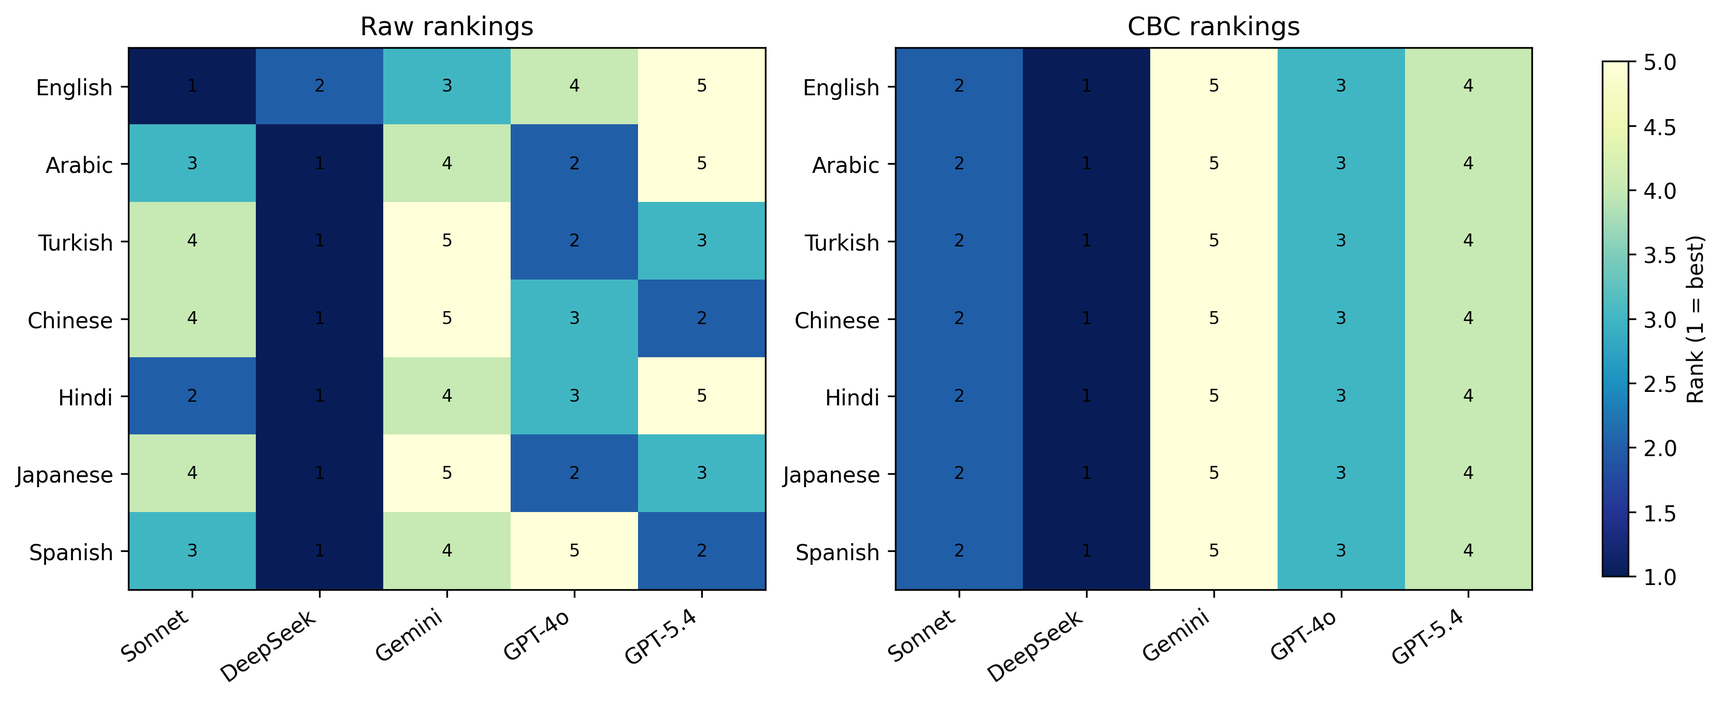
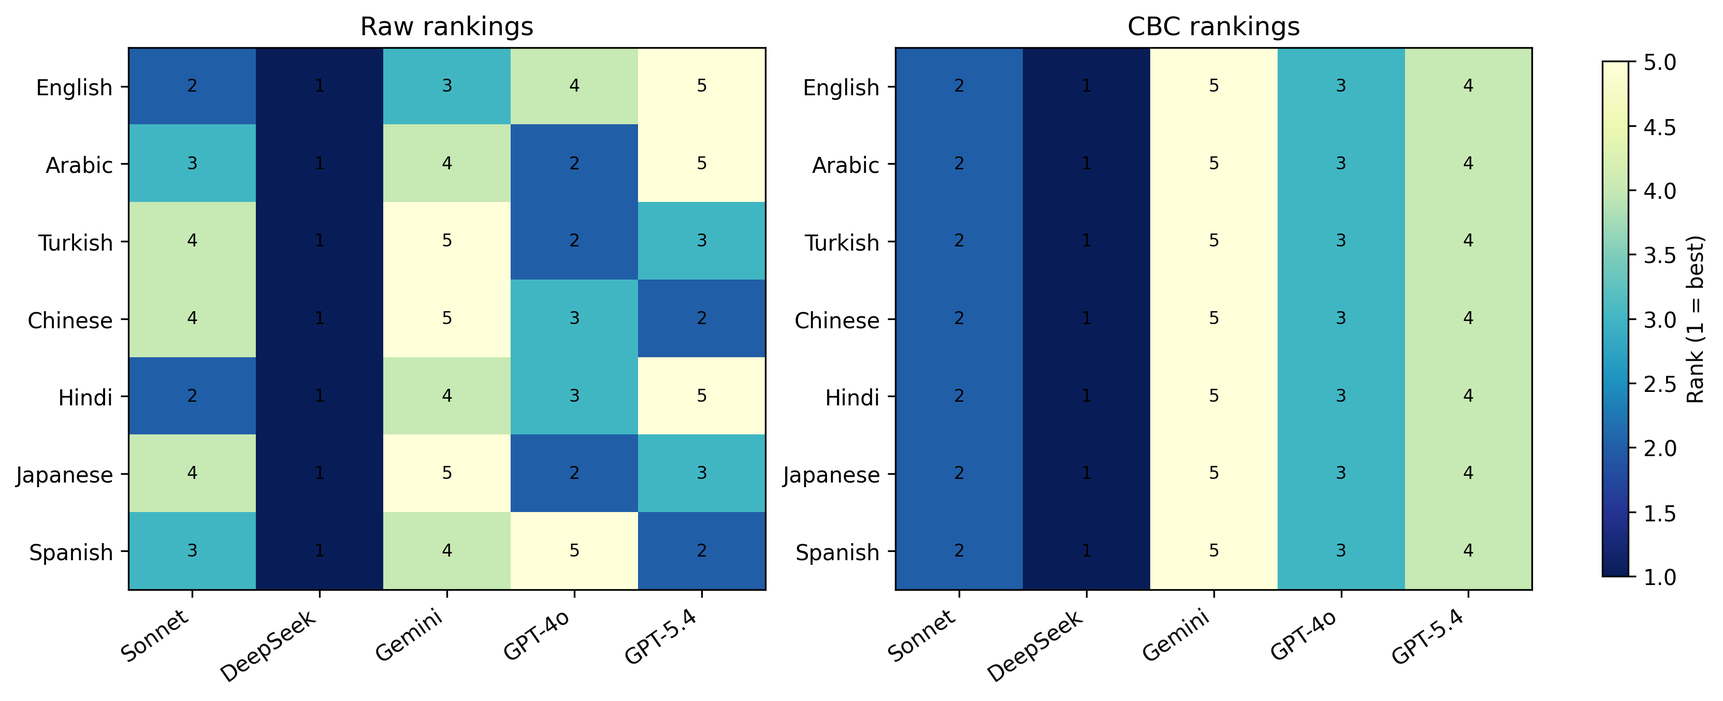
Revise analysis data, images, and paper text
Update analysis artifacts and paper content: replace two analysis PNGs, modify paper/analysis/meb_foundations.json (reorder methods, adjust mean_pairwise_tau and CIs, remove/reshape full_panel entries), and apply multiple edits to paper/main.tex (add code repository URL, update panel size from k=5 to k=8 in variance/radius calculations, adjust recommended task counts and ablation text, refine several phrasing points, and update bibliography invocation). Also expand and normalize entries in paper/references.bib (add metadata, DOIs/URLs, and change some entry types). These changes align the narrative and statistical constants with the expanded 8-language panel and refresh references and figures for reproducibility.

Changed region(s): [[0.0619, 0.062, 0.2477, 0.1861]]

diff --git a/paper/main.tex b/paper/main.tex
@@ -37,8 +37,9 @@
 \begin{document}
 \maketitle
 \begin{abstract}
-Multilingual LLM judges produce different evaluator-backbone rankings depending on the prompt language: on an eight-language Agent-as-a-Judge benchmark, the top-ranked backbone alternates across English, Arabic, Chinese, Hindi, Japanese, Spanish, Turkish, and Swahili, and 7 of 15 backbone pairs show statistically significant pairwise rank reversal. We treat this as a measurement problem. The multilingual judge score decomposes additively into task difficulty, backbone skill, and a language-backbone interaction term, the last of which is recoverable without human labels by double-centering the cell-mean score matrix. We make this estimator (\textbf{Consensus-Based Calibration}, CBC) explicit, give an $O(1/\sqrt{n})$ finite-sample concentration bound with variance constant $(1-\tfrac{1}{m})(1-\tfrac{1}{k})$, and show that it is unbiased even when task-language interactions are present. Across 7{,}920 judge runs (6 backbones, 8 languages, 55 tasks, 3 frameworks), CBC raises mean held-out Kendall $\tau$ from 0.650 to 0.902 and selects the held-out oracle-best backbone in 100\% of per-language decisions versus 68.5\% raw. On a separately collected M-RewardBench panel (7 languages, 1{,}500 items each, 5 evaluators), $\tau$ rises from 0.430 to 0.900, and panel agreement with the public gold preferences improves by 7.9 points (68.7\% to 76.6\%). The estimator is the standard two-way ANOVA interaction-recovery operation under sum-to-zero contrasts; our contribution is its application as a label-free post-hoc calibrator for multilingual LLM judges, an explicit finite-sample concentration bound, and an unbiasedness result that holds even under task-language misspecification.
+Multilingual LLM judges produce different evaluator-backbone rankings depending on the prompt language: on an eight-language Agent-as-a-Judge benchmark, the top-ranked backbone alternates across English, Arabic, Chinese, Hindi, Japanese, Spanish, Turkish, and Swahili, and 7 of 15 backbone pairs show statistically significant pairwise rank reversal. We treat this as a measurement problem. The multilingual judge score decomposes additively into task difficulty, backbone skill, and a language-backbone interaction term, the last of which is recoverable without human labels by double-centering the cell-mean score matrix. We make this estimator (\textbf{Consensus-Based Calibration}, CBC) explicit, give an $O(1/\sqrt{n})$ finite-sample concentration bound with variance constant $(1-\tfrac{1}{m})(1-\tfrac{1}{k})$, and show that it is unbiased even when task-language interactions are present. Across 7{,}920 judge runs (6 backbones, 8 languages, 55 tasks, 3 frameworks), CBC raises mean held-out Kendall $\tau$ from 0.650 to 0.902 and selects the held-out oracle-best backbone in 100\% of per-language decisions versus 68.5\% raw. On a separately collected M-RewardBench panel (7 languages, 1{,}500 items each, 5 evaluators), $\tau$ rises from 0.430 to 0.900, and panel agreement with the public gold preferences improves by 7.9 points (68.7\% to 76.6\%). The estimator is the standard two-way ANOVA interaction-recovery operation under sum-to-zero contrasts; our contribution is its application as a label-free post-hoc calibrator for multilingual LLM judges, an explicit finite-sample concentration bound, and an unbiasedness result that holds even under task-language misspecification. Code is available at \url{https://anonymous.4open.science/r/multilingual-judge-calibration-8F40}
 \end{abstract}
+
 \noindent \section{Introduction}
 The use of LLM-based judges to evaluate model and agent outputs is now common across recent benchmarks \citep{zhuge2024agentjudge,zheng2024judging,tan2025judgebench,lambert2024rewardbench}. As this deployment extends across languages, multiple studies have shown that judge behavior is not stable across the prompt language: \citet{hada-etal-2024-large} report systematic score inflation in multilingual evaluators against native-speaker references; \citet{fu2025reliable} document weak cross-lingual consistency (Fleiss' $\kappa \approx 0.3$) across 25 languages; \citet{singh-etal-2025-global} show that multilingual benchmark construction itself encodes linguistic and cultural bias; and \citet{mahmood2026multilingualpromptlocalizationagentasajudge} report concrete backbone-ranking reversals when judge prompts are localized.
 
@@ -165,7 +166,7 @@ Consequently, with probability at least $1-\varepsilon$,
 }
 \end{proposition}
 
-The exact constant comes from the variance of the double-centering operator: $\mathrm{Var}[\hat\beta(\ell,b)-\beta(\ell,b)] = \frac{\sigma^2}{n}(1-\frac{1}{m})(1-\frac{1}{k})$. For the panel used in our experiments ($m{=}6$, $k{=}5$, $n{=}55$), the simultaneous high-probability radius is about $9.2$ points at $\varepsilon{=}0.05$ with $\hat\sigma{\approx}22$ estimated from the simplified-model residuals (Appendix~\ref{app:proofs}).
+The exact constant comes from the variance of the double-centering operator: $\mathrm{Var}[\hat\beta(\ell,b)-\beta(\ell,b)] = \frac{\sigma^2}{n}(1-\frac{1}{m})(1-\frac{1}{k})$. For the expanded panel used in our main experiments ($m{=}6$, $k{=}8$, $n{=}55$), the simultaneous high-probability radius is about $9.9$ points at $\varepsilon{=}0.05$ with $\hat\sigma{\approx}22$ estimated from the simplified-model residuals (Appendix~\ref{app:proofs}).
 
 \begin{proposition}[Consistency]
 \label{prop:consistency}
@@ -299,7 +300,7 @@ The result is sharper than the Kendall-$\tau$ view alone (Table~\ref{tab:decisio
 
 \paragraph{Calibration results.} Under the same bootstrap train/OOB protocol as the main benchmark, raw cross-language $\tau$ is moderate ($0.430$, 95\% CI $[0.371, 0.486]$); CBC raises it to $0.900$ ($[0.790, 1.000]$); the adapted judge-aware BTL pairwise baseline reaches only $0.405$ ($[0.352, 0.467]$), close to Raw and well below CBC (Table~\ref{tab:external_validation}). After full-fit calibration, all seven languages align on the order DeepSeek $>$ Sonnet $>$ GPT-4o $>$ GPT-5.4 $>$ Gemini (Figure~\ref{fig:external_cbc_before_after}).
 
-\paragraph{Human-anchor check.} To add an external signal that does not depend on any choice we made, we use the public human-judged chosen/rejected gold preferences in M-RewardBench itself. For each language we sample 100 items stratified by subset (54 \texttt{alpacaeval-easy}, 46 \texttt{alpacaeval-hard}), average the 5 evaluator margins per item, and ask whether the panel decision agrees with the gold preference (ties count as non-agreement). Raw agreement is 68.7\% (95\% CI $[65.4, 71.7]$); CBC-aligned panel agreement rises to 76.6\% ($[73.6, 79.3]$), a gain of 7.9 points ($[6.0, 9.9]$; Table~\ref{tab:external_human_anchor}). Because the gold labels are human-judged and released by an independent group \citep{gureja-etal-2025-rewardbench}, this anchor cross-validates CBC against a target that does not pass through our rubric or routing.
+\paragraph{Human-anchor check.} To add an external signal independent of our evaluator scores, we use the public human-judged chosen/rejected gold preferences in M-RewardBench itself. For each language we sample 100 items stratified by subset (54 \texttt{alpacaeval-easy}, 46 \texttt{alpacaeval-hard}), average the 5 evaluator margins per item, and ask whether the panel decision agrees with the gold preference (ties count as non-agreement). Raw agreement is 68.7\% (95\% CI $[65.4, 71.7]$); CBC-aligned panel agreement rises to 76.6\% ($[73.6, 79.3]$), a gain of 7.9 points ($[6.0, 9.9]$; Table~\ref{tab:external_human_anchor}). Because the gold labels are human-judged and released by an independent group \citep{gureja-etal-2025-rewardbench}, this anchor cross-validates CBC against a target that does not pass through our rubric or routing.
 
 \begin{table}[t]
 \centering\footnotesize
@@ -344,7 +345,7 @@ Raw panel mean margin & 68.7\% & [65.4, 71.7] \\
 \subsection{Ablations}
 \label{sec:ablations-summary}
 
-Three ablations on the same expanded benchmark, with tables, figure, and full discussion, are reported in Appendix~\ref{app:ablations}. (i) Varying the number of backbones $m \in \{2,3,4,5,6\}$: mean $\tau$ stays near $0.90$ for all $m$, but cross-subset variability drops sharply once $m \geq 3$ (Std.\ $0.206 \to 0.105$). (ii) Varying the number of tasks $n \in \{10,20,30,40,55\}$: mean $\tau$ rises from $0.759$ at $n{=}10$ to $0.906$ at $n{=}55$, and the mean absolute estimation error $|\hat\beta-\beta_{\text{oracle}}|$ drops from $2.01$ to $0.67$, consistent with the $O(1/\sqrt{n})$ rate. For practitioners with $m \geq 3$ backbones we recommend $n \geq 30$ as a stable minimum and $n \approx 45$ as a more conservative target. (iii) Splitting by requirement type, CBC improves operational checks from $\tau = 0.770$ to $0.789$ and semantic checks from $0.737$ to $0.840$; the larger semantic gain is consistent with semantic judgments being more language-sensitive, while operational checks were already relatively stable across languages.
+Three ablations on the same expanded benchmark, with tables, a figure, and full discussion, are reported in Appendix~\ref{app:ablations}. (i) Varying the number of backbones $m \in \{2,3,4,5,6\}$: mean $\tau$ stays near $0.90$ for all $m$, but cross-subset variability drops sharply once $m \geq 3$ (Std.\ $0.206 \to 0.105$). (ii) Varying the number of tasks $n \in \{10,20,30,40,55\}$: mean $\tau$ rises from $0.759$ at $n{=}10$ to $0.906$ at $n{=}55$, and the mean absolute estimation error $|\hat\beta-\beta_{\text{oracle}}|$ drops from $2.01$ to $0.67$, consistent with the $O(1/\sqrt{n})$ rate. For practitioners with $m \geq 3$ backbones we recommend $n \geq 30$ as a stable minimum and $n \approx 52$ as a more conservative target. (iii) Splitting by requirement type, CBC improves operational checks from $\tau = 0.770$ to $0.789$ and semantic checks from $0.737$ to $0.840$; the larger semantic gain is consistent with semantic judgments being more language-sensitive, while operational checks were already relatively stable across languages.
 
 
 %==========================================================
@@ -352,7 +353,7 @@ Three ablations on the same expanded benchmark, with tables, figure, and full di
 \label{sec:analysis}
 %==========================================================
 
-To corroborate the rank-based results with an information-theoretic quantity, we estimate $I(\text{Score}; \text{Language} \mid \text{Backbone}, \text{Task})$ from the framework-level scores. Each $(\text{task}, \text{backbone})$ slice contains 24 observations (8 languages $\times$ 3 frameworks); we apply a KSG-style nearest-neighbor estimator \citep{kraskov2004estimating} per slice, average over all 330 slices, and report a permutation-debiased value (500 shuffles per slice). The conditional MI is $0.178$ nats (permutation interval $[0.169, 0.187]$, one-sided $p < 0.002$): small in absolute terms but statistically reliable, and exactly the non-redundant signal that $\beta(\ell,b)$ represents. The seven verified pairwise reversals (Table~\ref{tab:diversity}) are also all and only the cross-family pairs among GPT-4o, GPT-5.4, Sonnet, and DeepSeek; Qwen is Pareto-dominated in this panel and Gemini is top- or second-ranked in every language, so neither produces a sign change. A rigorous regression against standardized model-card metadata requires information that current cards do not consistently disclose and remains future work.
+To corroborate the rank-based results with an information-theoretic quantity, we estimate $I(\text{Score}; \text{Language} \mid \text{Backbone}, \text{Task})$ from the framework-level scores. Each $(\text{task}, \text{backbone})$ slice contains 24 observations (8 languages $\times$ 3 frameworks); we apply a KSG-style nearest-neighbor estimator \citep{kraskov2004estimating} per slice, average over all 330 slices, and report a permutation-debiased value (500 shuffles per slice). The conditional MI is $0.178$ nats (permutation interval $[0.169, 0.187]$, one-sided $p < 0.002$): small in absolute terms but statistically reliable, and exactly the non-redundant signal that $\beta(\ell,b)$ represents. The seven verified pairwise reversals (Table~\ref{tab:diversity}) are exactly the cross-family pairs among GPT-4o, GPT-5.4, Sonnet, and DeepSeek; Qwen is Pareto-dominated in this panel and Gemini is top- or second-ranked in every language, so neither produces a sign change. A rigorous regression against standardized model-card metadata requires information that current cards do not consistently disclose and remains future work.
 
 
 %==========================================================
@@ -360,9 +361,9 @@ To corroborate the rank-based results with an information-theoretic quantity, we
 \label{sec:discussion}
 %==========================================================
 
-\paragraph{Theory meets practice.} The pairwise rank reversals tell practitioners that searching for a language-neutral backbone is futile; Proposition~\ref{thm:identifiability} shows they already have the data to fix it; and CBC tells them how. Unlike Dawid--Skene \citep{dawid1979maximum}, which models annotator-level reliability on categorical labels, CBC operates on continuous pointwise scores and exploits the two-way (language$\times$backbone) structure rather than treating each language-backbone pair as an independent annotator. This structural assumption replaces per-annotator confusion matrices with a single scalar bias per language-backbone pair, which is what enables stable estimation with $n=55$ tasks.
+\paragraph{Theory meets practice.} The pairwise rank reversals tell practitioners that searching for a language-neutral backbone is unreliable; Proposition~\ref{thm:identifiability} shows they already have the data needed to estimate the interaction; and CBC tells them how to remove it. Unlike Dawid--Skene \citep{dawid1979maximum}, which models annotator-level reliability on categorical labels, CBC operates on continuous pointwise scores and exploits the two-way (language$\times$backbone) structure rather than treating each language-backbone pair as an independent annotator. This structural assumption replaces per-annotator confusion matrices with a single scalar bias per language-backbone pair, which is what enables stable estimation with $n=55$ tasks.
 
-\paragraph{Cost and applicability.} CBC costs zero human annotations; by comparison, \citet{hada-etal-2024-large} use 20{,}000 native-speaker annotations across eight languages. Our compute cost is \$54.93 for the three-language extension and \$195.3 for the M-RewardBench panel (Appendix~\ref{app:costs}). The same two-way decomposition and calibrator apply beyond agentic code evaluation, to any setting where multiple judge backbones produce continuous scores on shared items across languages, including RLHF reward modeling, safety classification, automated grading, and machine-translation evaluation.
+\paragraph{Cost and applicability.} CBC requires zero human annotations; by comparison, \citet{hada-etal-2024-large} use 20{,}000 native-speaker annotations across eight languages. Our compute cost is \$54.93 for the three-language extension and \$195.3 for the M-RewardBench panel (Appendix~\ref{app:costs}). The same two-way decomposition and calibrator apply beyond agentic code evaluation, to any setting where multiple judge backbones produce continuous scores on shared items across languages, including RLHF reward modeling, safety classification, automated grading, and machine-translation evaluation.
 
 
 %==========================================================
@@ -385,7 +386,7 @@ Two directions remain open: three-way effects and zero-shot transfer to unseen l
 
 \textbf{Interaction bias versus shared bias.} CBC is designed to remove the interaction term $\beta(\ell,b)$, not a language effect shared uniformly across all backbones. If all evaluators were systematically 5 points harsher in one language, that shift would vanish under double centering and remain uncorrected by CBC. Addressing that kind of shared language-level bias requires an external anchor such as human judgments or a trusted calibrated reference model. Our small human-anchor experiment is included only as a downstream validation check, not as part of the CBC estimator itself.
 
-\textbf{Finite-sample uncertainty.} The convergence bound is asymptotic in spirit and conservative in finite samples. In the present benchmark ($m=6$, $k=5$, $n=55$), the simultaneous high-probability radius is about $9.2$ points at $\varepsilon=0.05$. The largest observed interaction cells, such as GPT-4o in Spanish ($-20.61$) or GPT-4o in English ($+11.84$), sit comfortably outside this radius, but moderate cells such as GPT-5.4 in Swahili ($+8.39$) or English ($-7.44$) fall within it. The empirical signal is therefore strong for the largest language-backbone affinities, but smaller cells should not be over-interpreted as if they were known with negligible uncertainty.
+\textbf{Finite-sample uncertainty.} The finite-sample concentration bound is conservative in practice. In the present benchmark ($m=6$, $k=8$, $n=55$), the simultaneous high-probability radius is about $9.9$ points at $\varepsilon=0.05$. The largest observed interaction cells, such as GPT-4o in Spanish ($-20.61$) or GPT-4o in English ($+11.84$), sit comfortably outside this radius, but moderate cells such as GPT-5.4 in Swahili ($+8.39$) or English ($-7.44$) fall within it. The empirical signal is therefore strong for the largest language-backbone affinities, but smaller cells should not be over-interpreted as if they were known with negligible uncertainty.
 
 \textbf{Distributional assumptions.} Proposition~\ref{prop:convergence} assumes independent Gaussian noise with constant variance. That assumption is analytically convenient, but real judge noise is likely heteroskedastic, heavy-tailed, and partly structured by prompt format, task family, or provider behavior. The consistency result only requires weaker moment conditions, but the explicit finite-sample radius does depend on the Gaussian tail calculation. More general sub-Gaussian, robust, or heteroskedastic concentration results would strengthen the theory and make the uncertainty statement less model-dependent.
 
@@ -400,7 +401,7 @@ Two directions remain open: three-way effects and zero-shot transfer to unseen l
 
 \section*{Reproducibility Statement}
 
-All proofs are provided in full (main text and appendix). Experimental validation uses public data from a previously introduced multilingual Agent-as-a-Judge benchmark \citep{mahmood2026multilingualpromptlocalizationagentasajudge}, together with our three-language extension and the public M-RewardBench dataset of \citet{gureja-etal-2025-rewardbench}. Because provider billing exports were not preserved consistently, Appendix~\ref{app:costs} reports estimated list-price API costs computed from recorded token counts in the saved artifacts and public model rates. The anonymized repository at \url{https://anonymous.4open.science/r/cbc-emnlp2026} contains the CBC implementation, analysis scripts, external collection pipeline, requirements file with pinned versions, and the derived evaluator-score matrices used in the reported analyses.
+All proofs are provided in full (main text and appendix). Experimental validation uses public data from a previously introduced multilingual Agent-as-a-Judge benchmark \citep{mahmood2026multilingualpromptlocalizationagentasajudge}, together with our three-language extension and the public M-RewardBench dataset of \citet{gureja-etal-2025-rewardbench}. Because provider billing exports were not preserved consistently, Appendix~\ref{app:costs} reports estimated list-price API costs computed from recorded token counts in the saved artifacts and public model rates. The anonymized repository at \url{https://anonymous.4open.science/r/multilingual-judge-calibration-8F40} contains the CBC implementation, analysis scripts, external collection pipeline, requirements file with pinned versions, and the derived evaluator-score matrices used in the reported analyses.
 
 
 \section*{Ethics Statement}
@@ -563,7 +564,7 @@ This appendix contains the three ablation studies referenced from Section~\ref{s
 
 \subsection{Ablation: Number of Backbones ($m$)}
 
-Proposition~\ref{thm:identifiability} requires $m \geq 2$; more backbones reduce estimation variance. We test sensitivity to $m$ by subsampling backbone subsets.
+Proposition~\ref{thm:identifiability} requires at least two backbones and two languages; more backbones reduce estimation variance. We test sensitivity to $m$ by subsampling backbone subsets.
 
 \begin{table}[h]
 \centering\footnotesize
@@ -603,12 +604,12 @@ Std.        & 0.103 & 0.061 & 0.057 & 0.054 & 0.051 \\
 
 The task ablation shows that CBC remains useful even with only 10 tasks, but improves and becomes more stable as more tasks are available (Table~\ref{tab:ablation_n}). The mean absolute estimation error $|\hat\beta-\beta_{\text{oracle}}|$ drops from 2.01 at $n{=}10$ to 0.67 at $n{=}55$, consistent with the convergence story (Figure~\ref{fig:convergence}).
 
-For a simple practitioner-facing power check, consider the largest observed interaction magnitude, $|\hat\beta|_{\max} = 20.61$ (GPT-4o in Spanish). Under Proposition~\ref{prop:convergence}, the simultaneous high-probability radius drops below half of that scale once $n > 44$, i.e., at about 45 tasks in this benchmark. Empirically, CBC is already fairly stable by $n{=}30$ (mean pairwise $\tau = 0.853$ and mean absolute bias error $1.11$), with smaller gains thereafter. For practitioners deploying CBC with $m \geq 3$ backbones, we therefore recommend $n \geq 30$ tasks as a practical minimum for stable bias estimates, while $n \approx 45$ is a more conservative target if one wants the Proposition~\ref{prop:convergence} radius to fall below half of the largest observed $|\beta|$.
+For a simple practitioner-facing power check, consider the largest observed interaction magnitude, $|\hat\beta|_{\max} = 20.61$ (GPT-4o in Spanish). Under Proposition~\ref{prop:convergence}, the simultaneous high-probability radius drops below half of that scale once $n > 51$, i.e., at about 52 tasks in this benchmark. Empirically, CBC is already fairly stable by $n{=}30$ (mean pairwise $\tau = 0.853$ and mean absolute bias error $1.11$), with smaller gains thereafter. For practitioners deploying CBC with $m \geq 3$ backbones, we therefore recommend $n \geq 30$ tasks as a practical minimum for stable bias estimates, while $n \approx 52$ is a more conservative target if one wants the Proposition~\ref{prop:convergence} radius to fall below half of the largest observed $|\beta|$.
 
 \begin{figure}[h]
 \centering
 \includegraphics[width=0.98\columnwidth]{analysis/convergence_curve.png}
-\caption{Convergence of CBC bias estimation error as a function of the number of tasks $n$. The empirical mean absolute error $|\hat\beta-\beta_{\mathrm{oracle}}|$ decreases steadily with more tasks. The dashed reference curve plots the explicit Proposition~\ref{prop:convergence} constant using $\hat{\sigma}=22.24$, $\varepsilon=0.05$, $m=6$, and $k=5$, so it should be read as the paper's conservative finite-sample bound rather than as a generic asymptotic envelope.}
+\caption{Convergence of CBC bias estimation error as a function of the number of tasks $n$. The empirical mean absolute error $|\hat\beta-\beta_{\mathrm{oracle}}|$ decreases steadily with more tasks. The dashed reference curve plots the explicit Proposition~\ref{prop:convergence} constant using $\hat{\sigma}=22.24$, $\varepsilon=0.05$, $m=6$, and $k=8$, so it should be read as the paper's conservative finite-sample bound rather than as a generic asymptotic envelope.}
 \label{fig:convergence}
 \end{figure}
 
@@ -629,7 +630,7 @@ This appendix expands the M-RewardBench validation setting summarized in Section
 
 \paragraph{In-sample full-fit diagnostic.} The bootstrap train/OOB number is the headline in Table~\ref{tab:external_validation}. We additionally report an in-sample full-fit diagnostic: $\hat\beta$ is estimated on all 1{,}500 items per language and $\tau$ is computed on that same fitted panel. The resulting $\tau = 1.000$ should be read as a sanity check on the recovered shared ordering, not as an independent generalization estimate. The adapted Xu baseline stays at the raw full-panel level ($\tau = 0.410$), consistent with the fact that it discards margin magnitudes and retains only pairwise orderings within each item.
 
-\paragraph{Panel-construction notes.} We attempted to include a Qwen3 evaluator in the M-RewardBench panel but excluded it from the completed panel because its public-provider run produced incomplete chosen/rejected outputs and never reached a clean terminal state. M-Prometheus \citep{pombal2025mprometheus} is positioned by its authors as a multilingual judge-training resource rather than a public evaluator-output release on a shared benchmark, so we did not adopt it as a validation panel here.
+\paragraph{Panel-construction notes.} We attempted to include a Qwen3 evaluator in the M-RewardBench panel but excluded it from the completed panel because its provider run produced incomplete chosen/rejected outputs and never reached a clean terminal state. M-Prometheus \citep{pombal2025mprometheus} is positioned by its authors as a multilingual judge-training resource rather than a public evaluator-output release on a shared benchmark, so we did not adopt it as a validation panel here.
 
 \section{Estimated API Cost Breakdown}
 \label{app:costs}
@@ -700,6 +701,6 @@ We also tested a Dawid--Skene EM baseline \citep{dawid1979maximum} by binarizing
 
 
 %\bibliographystyle{plainnat}
-\bibliography{references}
+\bibliography{main}
 
 \end{document}
